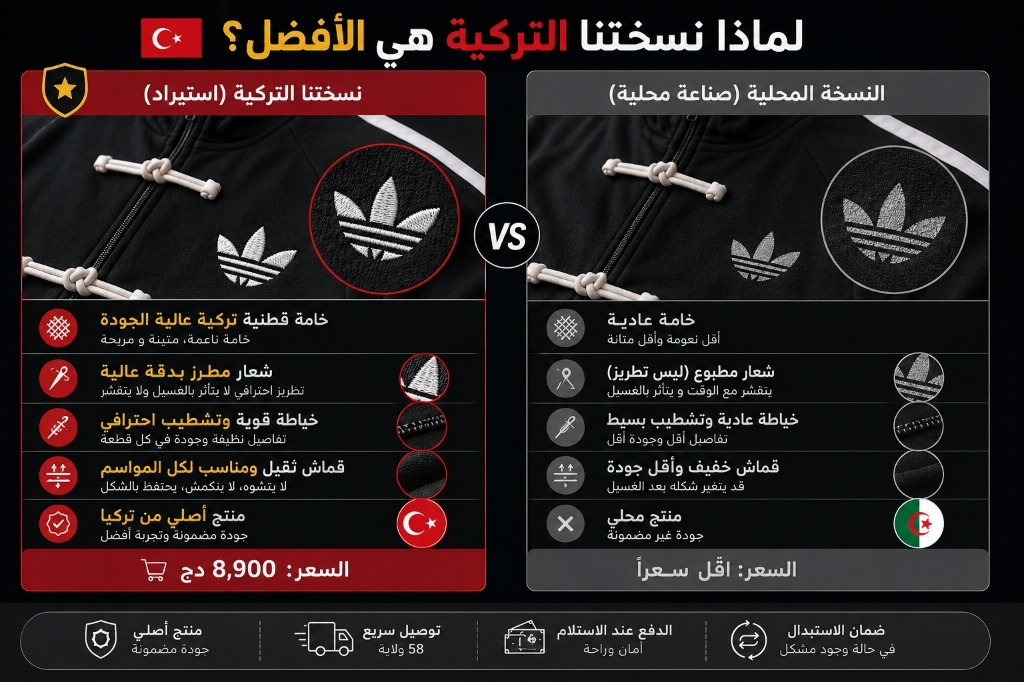
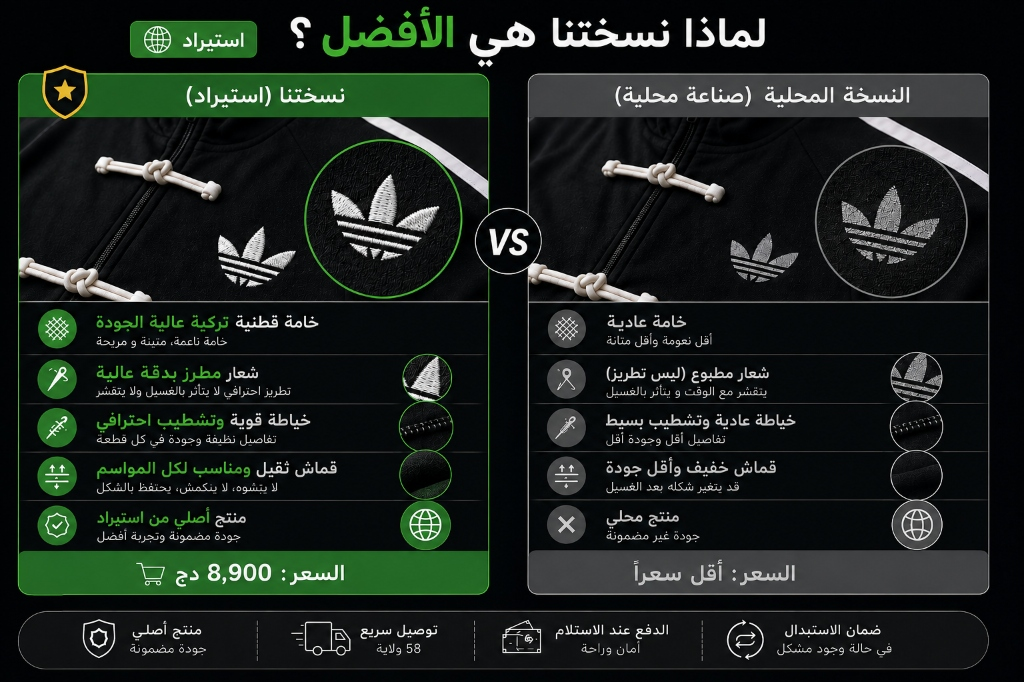
fix splash screen errors

diff --git a/components/product/ProductShowcase.tsx b/components/product/ProductShowcase.tsx
@@ -731,7 +731,7 @@ const ProductShowcase: React.FC<ProductShowcaseProps> = ({
           <div className="max-w-4xl w-full rounded-3xl overflow-hidden border border-white/15 shadow-[0_20px_50px_rgba(0,0,0,0.8)]">
             <Image
               src="/products/chinese-jacket-comparison.jpg"
-              alt="لماذا نسختنا التركية هي الأفضل؟ مقارنة بين النسخة التركية المستوردة والنسخة المحلية"
+              alt="لماذا نسختنا هي الأفضل؟ مقارنة بين النسخة الأصلية استيراد والنسخة المحلية"
               width={1200}
               height={780}
               className="w-full h-auto object-contain"
@@ -988,7 +988,7 @@ const ProductShowcase: React.FC<ProductShowcaseProps> = ({
               <div className="w-full rounded-3xl overflow-hidden border border-white/15 shadow-2xl bg-black/40 my-2">
                 <Image
                   src="/products/chinese-jacket-comparison.jpg"
-                  alt="لماذا نسختنا التركية هي الأفضل؟ مقارنة بين النسخة الأصلية والنسخة المحلية"
+                  alt="لماذا نسختنا هي الأفضل؟ مقارنة بين النسخة الأصلية استيراد والنسخة المحلية"
                   width={1000}
                   height={650}
                   className="w-full h-auto object-contain rounded-3xl"
